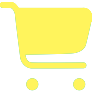
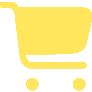
更新图标颜色，并加入猜你喜欢功能

diff --git a/pages/index/index.js b/pages/index/index.js
@@ -523,7 +523,7 @@ Page({
 
     that.setData({
       fixedCategory: !(event.scrollTop >= app.globalData.fixedTop),
-      showTopBtn: event.scrollTop > 1100,
+      showTopBtn: event.scrollTop > 1300,
       scrollTop: event.scrollTop
     })
   }, 50),
